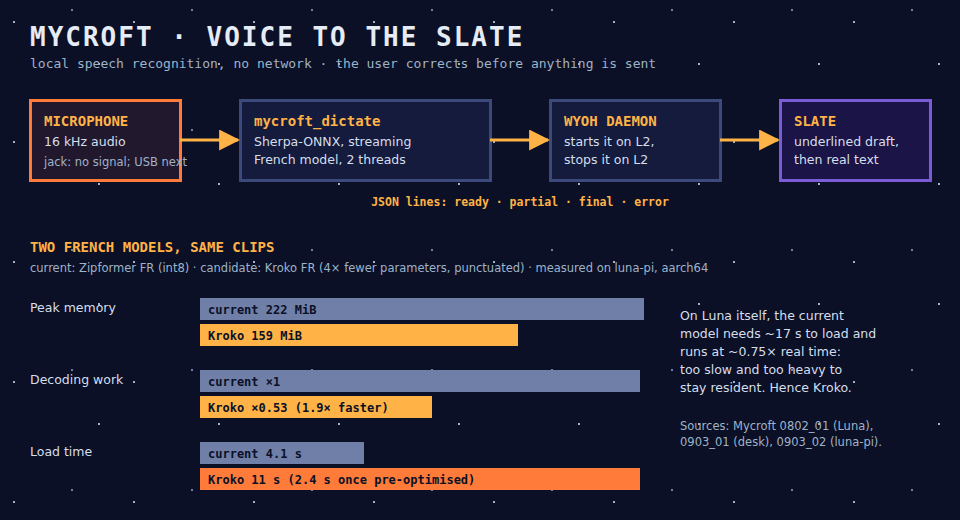
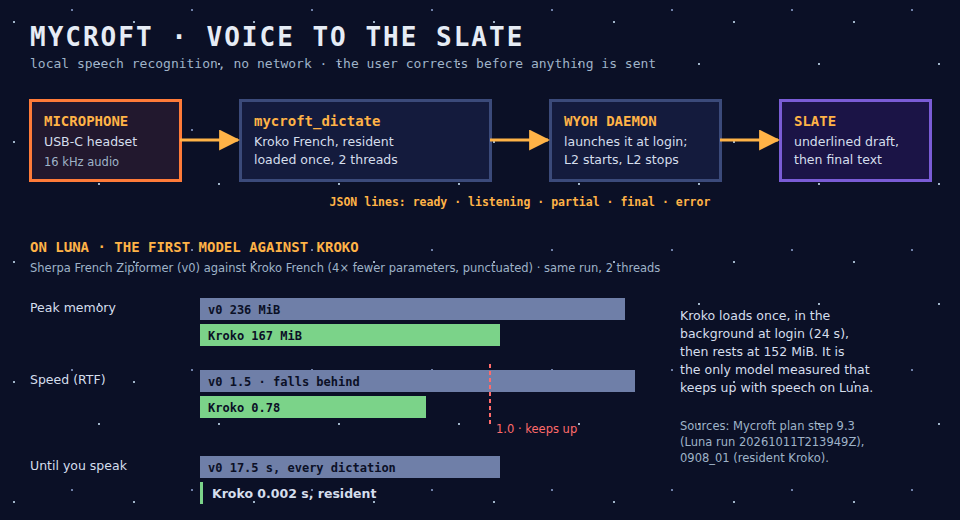
🎙 compare every speech model Mycroft tried
The speech-to-text story gains a final comparison: all nine models
considered, how far each got (paper, desk, luna-pi, Luna, Slate) and
why it stopped, plus the three measured ones side by side.
The Mycroft page still described the pre-Kroko state (no microphone,
Kroko as a candidate); it now shows resident Kroko in the Slate.
Two new charts and a refreshed diagram, SVG with a PNG render each.

diff --git a/docs/11_mycroft.md b/docs/11_mycroft.md
@@ -18,41 +18,45 @@ Mycroft turns French speech into editable text, locally and with no network, and
 
 ## How it talks to the others
 
-- **Wyoh starts it.** L2 in the Slate starts the provider, and L2 again (or any key) stops it.
-- **Lines on its output:** `ready`, then `partial` drafts while you speak, then a `final` text, or an `error`. These are JSON lines on standard output. Closing its input stops it.
-- **The Slate owns the text.** Drafts are underlined, and the final text is inserted at the cursor. Nothing is sent until you press FN+A. The contract is in [`worklines/mycroft/docs/0704_01`](../worklines/mycroft/docs/0704_01_dictation-provider.md).
-- **Known words.** The model accepts a list of words to favour, such as names like Wyoh, Luna or Michael. This works, but it has not yet been measured on the user's own voice.
+- **Wyoh starts it, once.** When Luna's session starts, Wyoh's gamepad daemon launches the provider in **resident** mode, in the background. It loads Kroko once and waits with the microphone closed.
+- **L2 dictates.** In the Slate, L2 starts and stops dictation; on the desktop, L2 opens the Slate straight into dictation. The provider answers `start` with `listening` in 0.002 s.
+- **Lines on its output:** `ready` once loaded, then for each dictation `listening`, `partial` drafts while you speak, and a `final` text; or an `error`. These are JSON lines on standard output.
+- **The Slate owns the text.** Drafts are underlined, and the final text, with capitals and punctuation, is inserted at the cursor. Nothing is sent until you press FN+A. The contract is in [`worklines/mycroft/docs/0704_01`](../worklines/mycroft/docs/0704_01_dictation-provider.md), and resident mode in [`0903_03`](../worklines/mycroft/docs/0903_03_note-from-wyoh-kroko-resident-in-slate.md).
+- **Known words** (names such as Wyoh, Luna or Michael) worked on the old model, on a synthetic voice. They are not set up for Kroko yet: that is proposed step 9.10.
 
 ## What it costs
 
-| Where | Load | Speed | Memory |
-|---|---|---|---|
-| Luna, current model, 2 threads | ≈ 17 s (≈ 13 s pre-optimised) | ≈ 0.75 × real time: a 7 s sentence ends 3.6 s late | ≈ 252 MiB |
-| `luna-pi`, current model | 4.1 s | — | 222 MiB |
-| `luna-pi`, Kroko | 11 s (2.4 s for its encoder once pre-optimised) | 1.9 × faster than the current model | 159 MiB |
+On Luna, Kroko prepared once for ARM, 2 threads, resident:
+
+| Measure | Value |
+|---|---|
+| Load, once per session, in the background | 24.4 s (47.7 s with the files as published) |
+| Memory | 152 MiB at rest, 172 MiB while dictating |
+| Speed | RTF 0.78: it keeps up with speech |
+| From L2 to listening | 0.002 s |
+| From the end of speech to the final text | ≈ 1.2 s, of which 1.0 s is silence fed so that Kroko keeps the last word |
+| Memory left with the desktop running | ≈ 520 MiB available of 983 MiB |
+
+![Every model and how far it got](img/mycroft-model-journey.svg)
 
 ## Why it is like this
 
-- **Sherpa-ONNX with a streaming French Zipformer.** It was chosen over whisper.cpp tiny in the first desk benchmark, and it streams partial results while you speak. It has stayed the reference since.
-- **Two threads, not four.** On Luna's Cortex-A35 cores, four threads decode more slowly than one and burn 2.5 times the CPU. Two is the best setting.
-- **Python stays.** Sherpa's own C++ binary saved only about 15 MiB, and it neither loaded nor decoded faster. The heavy work is compiled code in both cases.
-- **The load is computation, not disk.** About 15 of the 17 s go to ONNX Runtime preparing the model. Saving a pre-optimised model removes part of it. Keeping the model resident would remove all of it, at a permanent cost of about 250 MiB.
-- **Hence Kroko.** It is about four times smaller, half the CPU, 60 MiB lighter, and it outputs punctuation and capitals. It was more accurate on the user's own reading (word error 9 % against 13 %).
-- **GPU later.** Luna's Mali exposes OpenCL. It is parked until dictation works well on the CPU.
+- **Kroko, after eight others.** Nine models were considered; the full comparison is in [06 · The speech-to-text story](06_speech-to-text-story.md). Kroko has about 18 M parameters, a quarter of the first model (Sherpa's French Zipformer). It made fewer errors on the user's reading (9 % against 13 %), uses about half the CPU and 70 MiB less, and writes capitals and punctuation. It is the only model measured that keeps up with speech on Luna.
+- **Resident, because loading is long.** Kroko takes 24 s to load on Luna. The user ruled out any wait after pressing the button, so it loads once per session and stays in memory.
+- **Prepared once for ARM.** Saving the model once with ONNX Runtime's "extended" optimisation, on aarch64, halves the load (47.7 s to 24.4 s) with identical text.
+- **Two threads, not four.** On Luna's Cortex-A35 cores, four threads decode more slowly than one. Two is the best setting.
+- **Python stays.** Sherpa's own C++ binary saved only about 15 MiB and was no faster. The heavy work is compiled code in both cases.
+- **GPU later.** Luna's Mali exposes OpenCL. It is parked while the CPU is enough.
 
 ## Status and limits
 
 - **Done:**
-  - the console works on the desk host, and the user judged live dictation there "pas mal";
-  - the provider is installed on Luna and wired into the Slate, and is tested with a fake provider.
-- **Blocking:** no microphone on Luna yet.
-  - The headset jack gives no signal, even with the factory codec values.
-  - A passive USB-C adapter is not a sound card.
-  - The next try is a USB sound card or a USB microphone.
+  - Kroko is resident on Luna and wired into the Slate (Wyoh step 12.4). The user's voice tests with the USB-C headset worked.
+  - The memory check on Luna's Arch Linux ARM root passed; the user's verdict: "it will hold".
 - **Open:**
-  - Kroko's licence must be confirmed;
-  - Kroko must be measured on Luna itself;
-  - known words must be measured on the user's voice;
-  - the "re-format" action (punctuation on demand) is not designed yet.
+  - Kroko's licence: Banafo states CC-BY-SA, but no licence text ships with the weights. Fine for private use; to settle before Kroko goes into a Luna image others download.
+  - Making Kroko the code's default (step 8.7, waiting for a go).
+  - Proposed: draft text for Mike while you speak (9.9), and known words for Kroko (9.10).
+  - The "re-format" action (punctuation on demand) is not designed yet.
 
-**Sources:** `worklines/mycroft/plan_mycroft.md`, Steps 4, 5, 7, 8 and 9; results `0104_04`, `0703_01`, `0802_01`, `0901_01`, `0903_01` and `0903_02`; contract `0704_01`.
+**Sources:** `worklines/mycroft/plan_mycroft.md`, Steps 4, 7, 8 and 9; results `0104_04`, `0703_01`, `0802_01`, `0808_01`, `0901_01`, `0903_01`, `0903_02` and `0908_01`; contract `0704_01`.

diff --git a/docs/06_speech-to-text-story.md b/docs/06_speech-to-text-story.md
@@ -20,6 +20,7 @@ The first step was a review of what exists, followed by two candidates tested on
 
 - **Sherpa-ONNX with a French "Zipformer"** is a speech model made for French, and it streams: words appear while you speak. Its engine is a native library, and it publishes a ready-made build for ARM, Luna's processor family.
 - **Whisper Tiny** is OpenAI's smallest model, run through `whisper.cpp`.
+- **Moonshine Tiny**, another small model, stayed on paper: no French asset, licence and ARM path could be pinned (`0102_02`).
 - **The big names were ruled out on paper.** Google's Gemma 3n needs 2–3 GB, and NVIDIA's Parakeet 0.6B about 2 GB (`0201_02`, `0201_03`). No quality advantage pays for memory the device does not have.
 
 On three public French clips, and then on a 130-second reading by the user covering commands, code and project names, Sherpa won clearly:
@@ -68,6 +69,7 @@ Fine-tuning would not make the model smaller, and it was already French only. Th
 Three names came up: the user had noted two of them, and Charlie, a colleague, suggested Phonon-2. The user was even ready to speak English to Luna for a tiny, efficient model.
 
 - **Parakeet Redux and Phonon-2** are compressed versions of NVIDIA's Parakeet, small to download (164–178 MB) but still about 600 million parameters to compute. Parakeet Redux's engine publishes no build for ARM Linux. Phonon-2 runs on PyTorch, which would fill Luna's memory by itself. Both were rejected (`0903_01`).
+- **Sherpa's multilingual models** (NVIDIA's Canary and FastConformer, which include French) were not tried: they are larger than the v0 model, not smaller (`0901_01`).
 - **Kroko**, a French model published by Banafo and packaged for Sherpa, has about **18 million parameters**, a quarter of the old model. Its text comes with capitals and punctuation.
 
 On the desk, against the old model, on the user's reading (`0903_01`):
@@ -115,6 +117,38 @@ On Luna, with the prepared Kroko (`0908_01`):
 Wyoh wired it in (Wyoh step 12.4). Kroko loads in the background when Luna's session starts, so it is ready before the user needs it. In the Slate, L2 starts and stops dictation. On the desktop, L2 opens the Slate straight into dictation. The user's voice tests worked, and the next fixes were about keys pressed during a dictation.
 
 The last check came after Luna's move to Arch Linux ARM (`0808_01`). With the desktop running and Kroko resident, about **520 MiB of Luna's 983 MiB stay available**. That leaves room for Mannie (~180 MiB) beside it. The user's verdict: "It will hold."
+
+## The final comparison
+
+Nine models came up between September and October. Six never ran: four were stopped by memory or by a missing ARM build, two were set aside. Three were measured, and only one reached the Slate.
+
+![Every model and how far it got](img/mycroft-model-journey.svg)
+
+| # | Model | Size | Furthest stage | What decided | Verdict |
+| --- | --- | --- | --- | --- | --- |
+| 1 | Sherpa French Zipformer (2023) | ~73 M parameters | Luna | WER 13.4 %; on Luna RTF 1.5, 236 MiB, 17.5 s load | v0, then replaced: too slow on Luna |
+| 2 | Whisper Tiny q5_1 | 31 MB file | desk | WER 42.7 %; lost 2 of the 13 instructions | Rejected: quality |
+| 3 | Moonshine Tiny | — | paper | no French asset, licence or ARM path pinned | Deferred |
+| 4 | Gemma 3n E2B / E4B | general multimodal | paper | 2–3 GB minimum | Ruled out: memory |
+| 5 | Parakeet TDT 0.6B v3 | 600 M | paper | ≥ 2 GB to load, no streaming | Ruled out: memory |
+| 6 | NeMo Canary, FastConformer | 100–150 MB int8 | paper | larger than the v0 model | Not tried |
+| 7 | Parakeet Redux | 600 M, ternary | install check | its engine has no ARM64 Linux build | Cannot install |
+| 8 | Phonon-2 | 600 M, English only | paper | PyTorch plus 600 M parameters exceed 1 GiB | Cannot fit |
+| 9 | **Kroko French (2025)** | **~18 M** | **the Slate** | **WER 9.1 %, punctuated; on Luna RTF 0.78, 167 MiB** | **Chosen, resident** |
+
+The three measured models, side by side, on the same audio and at 2 threads:
+
+![The three measured models](img/mycroft-model-measures.svg)
+
+| | Whisper Tiny | Sherpa Zipformer | Kroko |
+| --- | --- | --- | --- |
+| Word errors, user's reading (desk) | 42.7 % | 13.4 % | **9.1 %** |
+| Capitals and punctuation | no | no | **yes** |
+| Speed on Luna (RTF, below 1 keeps up) | not run | 1.5 | **0.78** |
+| Peak memory on Luna | not run (230 MiB on the desk) | 236 MiB | **167 MiB** |
+| From launch to speaking, on Luna | not run | 17.5 s at every dictation | 24.4 s once per session, then **0.002 s** |
+
+Whisper never reached Luna: it failed the quality test on the desk, and a model that loses instructions is not worth measuring further. The Luna figures for Sherpa and Kroko come from the same run (plan step 9.3); the resident figures from `0908_01`.
 
 ## What we keep
 

diff --git a/docs/README.md b/docs/README.md
@@ -24,7 +24,7 @@ The names come from the novel. **Luna** is the machine. **Wyoh** is the desktop.
 | 20–30 · Operations, user guide, decisions | Running it, using it, and why it is like this | *to come* |
 | [03 · The bring-up story](03_r36-ultra-bring-up-story.md) | How the handheld was brought up, card by card | 15 min |
 | [05 · The text-to-shell story](05_text-to-shell-story.md) | Why a tiny model cannot turn a sentence into a shell command, measured | 6 min |
-| [06 · The speech-to-text story](06_speech-to-text-story.md) | How Mycroft went from a first French model to Kroko, resident in the Slate | 7 min |
+| [06 · The speech-to-text story](06_speech-to-text-story.md) | How Mycroft went from a first French model to Kroko, resident in the Slate, with every model compared | 9 min |
 | [02 · Testing](02_testing.md) | How every test and experiment is written and run | for contributors |
 | [How-to guides](howto/README.md) | Doing things on Luna yourself, step by step (first: fixing a game's buttons) | per guide |
 | [LOGBOOK](LOGBOOK.md) | Every material change, by date | reference |
